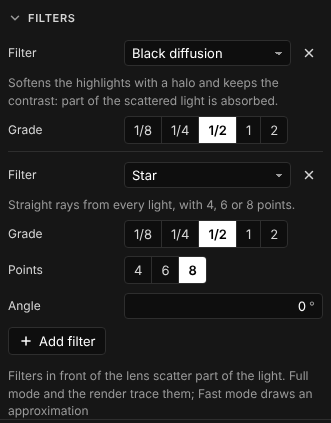
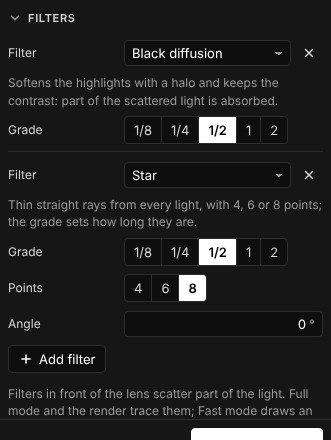
O3a: the lead's verdict on the filter sheet
The tint of the gold diffusion, the net and the streak goes on the wide
parts of the PSF only (the diffusion's tail, by its share of the
density at each distance, and the lines); the narrow core that sits on
the picture stays neutral, and the tints are weaker. The streak has its
own s table and gold keeps the diffusions'. On the sheet scene the
floor far from the lights moves its blue/red by 1.8% / 3.1% (gold 1 /
2) and 2.3% / 3.2% (streak), under the 3% / 6% of the verdict (a test).

The star's rays are as long as the grade says (a quarter of the sheet's
half-frame at 1/4, 60% at 1, all of it at 2), with a 1/r falloff that
tapers to their end and an s that grows as its integral, so they keep
their brightness near the light and do not widen. The net's cross is
short (3.5 degrees at 2, 15% of the sheet's width) and faint, 10% of
what it scatters; the rest is its softening.

The glimmer is a soft halo with the grain of a fixed cloud of 4096
sparkles (a 2-D Gaussian of 1 degree, speckle-like brightnesses), one
taken per sample by its brightness, whatever the pupil point; its
connection picks one of the sparkles that reach the light by brightness
times area, through a 64x64 grid. The virtual pupil of the pinhole is
gone with the cells.

The Fast viewport's approximation follows (per-part colours, lines to
the grade's length, the glimmer as its Gaussian). The white and black
diffusions and soft keep their bits; the O3a pin moves to 0x625d565d.
[…]

diff --git a/engine/crates/rt-core/src/optics/filter_tests.rs b/engine/crates/rt-core/src/optics/filter_tests.rs
@@ -786,7 +786,7 @@ fn the_star_grows_longer_with_its_grade_and_no_wider() {
 fn the_net_gives_a_short_faint_cross_and_softens_with_most_of_its_light() {
     // Most of what the net scatters is its softening; its cross is shorter than the star's and
     // fainter per line near the light, at every grade.
-    assert!(NET_AXIS_SHARE < 0.5);
+    const { assert!(NET_AXIS_SHARE < 0.5) };
     for (i, g) in GRADES.iter().enumerate() {
         let net = Filter::new(&filter(FILTER_NET, *g)).unwrap().unwrap();
         let star = Filter::new(&FilterParams {
